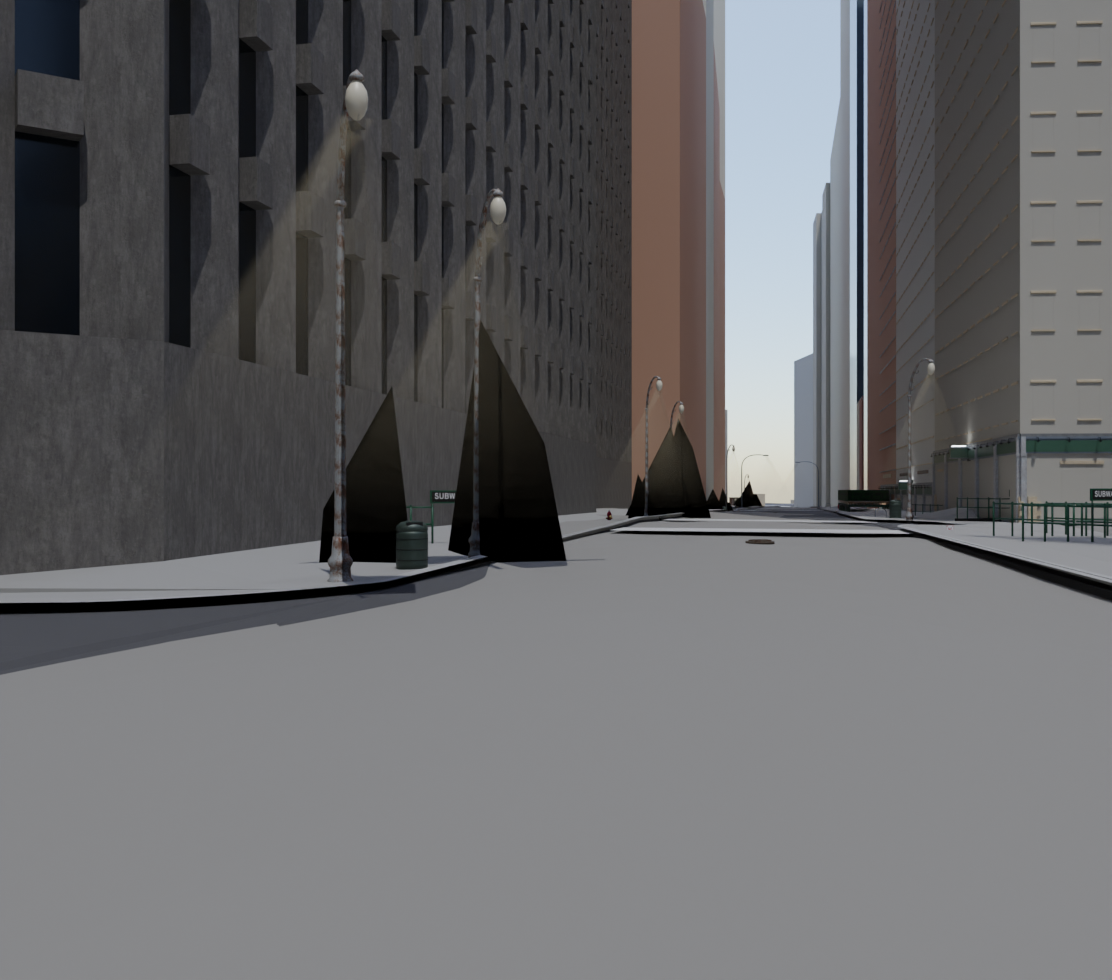
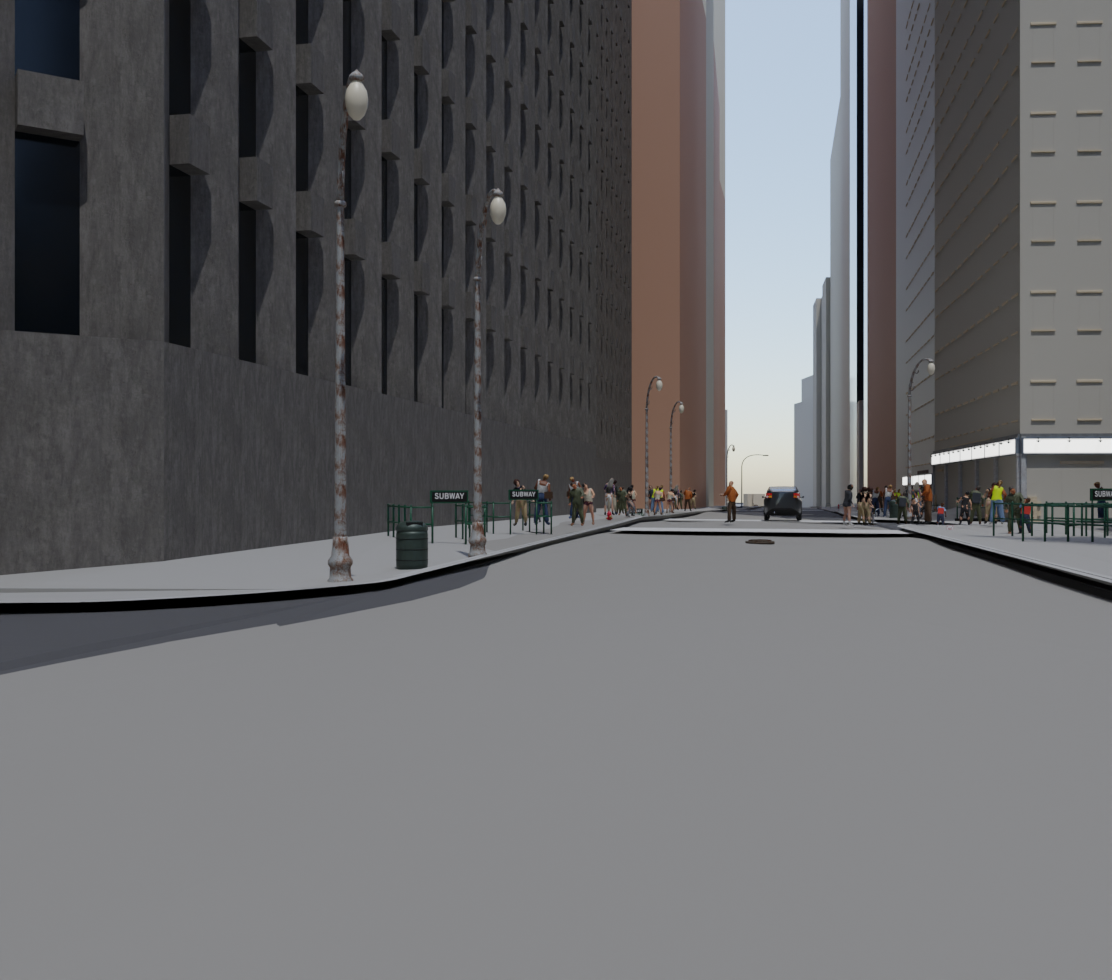
verify: the Wall Street canyon frame, and it corrects a generalisation I made today
The best frame in the set so far, and the first that reads as a photograph of a
street rather than a model of one: towers rising out of frame both sides, two
ranks of street lamps, three SUBWAY entrances with their railings, a litter
basket, a manhole in the roadbed, a crowd on both pavements and a sedan on the
carriageway.  4,025 kit pieces, 455 props, 14 landmark models, 89 vehicles, 212
people.

It also corrects me.  Two frames ago I wrote that the facade kit models
everything except the opening.  True on the Bed-Stuy and Park Slope walls;
false here, where the left-hand tower carries deep recessed window openings with
visible reveals from 3,714 window pieces.  Whether a window reads as an opening
depends on the facade class, not on the kit as a whole, and my wording was
broader than the evidence.  All three sheets now say which case they are.

The drop record is the other half of the agent counts and the assessment reads
it: 1,292 pedestrians dropped by the triangle budget - six times the number
placed - plus 1,151 outside the radius, 227 in the carriageway while not
crossing, 86 on no walkable surface and 31 inside a building.  The crowd in the
frame is the budget's share of a much larger simulated one.

Claude-Session: https://claude.ai/code/session_012rCzdfEp56Z5bDvSJLVsiQ

diff --git a/docs/verification/comparison/drive_lower_manhattan_broadway_wall_st/assessment.md b/docs/verification/comparison/drive_lower_manhattan_broadway_wall_st/assessment.md
@@ -12,6 +12,30 @@
 
 **Verdict — a convincing Lower Broadway canyon — right width, right wall heights, real subway entrances, real lamps and litter baskets, deep shadow where the real street has deep shadow — held back only by having no surfaces and no life, and paired with a close-up of a street sign**
 
+## Re-rendered 2026-09-07 — the best frame in the set, and it corrects something I wrote today
+
+This is the first frame in this pass that reads as a photograph of a street rather than as a model of
+one. Broadway looking south into the Wall Street canyon: towers rising out of frame on both sides,
+two ranks of street lamps down the left kerb, three SUBWAY entrance signs with their railings, a
+litter basket, a manhole cover in the roadbed, a crowd of pedestrians moving on both pavements and a
+black sedan on the carriageway. 4,025 kit pieces, 455 props, 14 landmark models, 89 vehicles and 212
+people.
+
+**It corrects a generalisation I made two frames ago.** On the Bed-Stuy and Park Slope sheets I wrote
+that the facade kit models everything except the opening. That is true there and it is not true here:
+the left-hand tower carries deep recessed window openings with visible reveals and real shadow, from
+3,714 window pieces in this frame. Whether a window reads as an opening depends on the facade class,
+not on the kit as a whole, and the earlier wording was broader than the evidence. Both sheets now say
+which case they are.
+
+**What the agent counts mean here.** 212 pedestrians and 89 vehicles are placed, and unlike the Bronx
+frames most of them are visible, because a straight canyon is the one geometry where a 54° wedge is
+not mostly blocked by block faces. The drop record is worth reading: **1,292 pedestrians were dropped
+by the triangle budget** — six times the number placed — along with 1,151 outside the radius, 227
+standing in the carriageway while not crossing, 86 on no walkable surface and **31 inside a
+building**. The crowd you see is the budget's share of a much larger simulated one, not the whole of
+it.
+
 ## What matches
 
 * The canyon is right. Broadway's roadbed width, both sidewalks, the setback line and the way the walls run unbroken for two blocks downtown match the real street closely.

diff --git a/docs/verification/comparison/drive_brooklyn_bed_stuy_stuyvesant_ave/assessment.md b/docs/verification/comparison/drive_brooklyn_bed_stuy_stuyvesant_ave/assessment.md
@@ -48,6 +48,8 @@ Two smaller things this frame records. The camera stands about five metres from 
 same camera-placement class as I14. And of the 88 vehicles and 378 pedestrians the simulation put in
 this scene, **not one is in this frame** — the wall fills it.
 
+*Later note, from `drive_lower_manhattan_broadway_wall_st`:* this is not a property of the kit as a whole. On the Wall Street canyon frame the window pieces render as deep recessed openings with real reveals. Whether an opening appears depends on the facade class, and the brownstone classes in this frame are the case where it does not.
+
 ## What matches
 
 * The brownstone block face is genuinely right in kind. The render carries a continuous three-storey brick wall with round-arched window heads, projecting stone lintels and a run of raised stoops with metal railings, which is exactly the Stuyvesant Heights vocabulary and the reason this drive-through area is in the brief.

diff --git a/docs/verification/comparison/drive_brooklyn_park_slope_7th_ave/assessment.md b/docs/verification/comparison/drive_brooklyn_park_slope_7th_ave/assessment.md
@@ -42,6 +42,8 @@ What the frame *does* show is the same gap as `drive_brooklyn_bed_stuy_stuyvesan
 HVAC units placed on a wall with no window openings between them. Here it is starker, because there
 is nothing else in the frame.
 
+*Later note:* the same qualification applies here as on the Bed-Stuy sheet — the Wall Street canyon frame shows the window kit producing real recessed openings, so this is a facade-class case rather than a kit-wide one.
+
 ## What matches
 
 * The boxed-in test fired and is stated: the recorded eye point had the view closed off 9 m ahead, and the camera was moved 12 m backwards to a point with 21 m of clear view.
